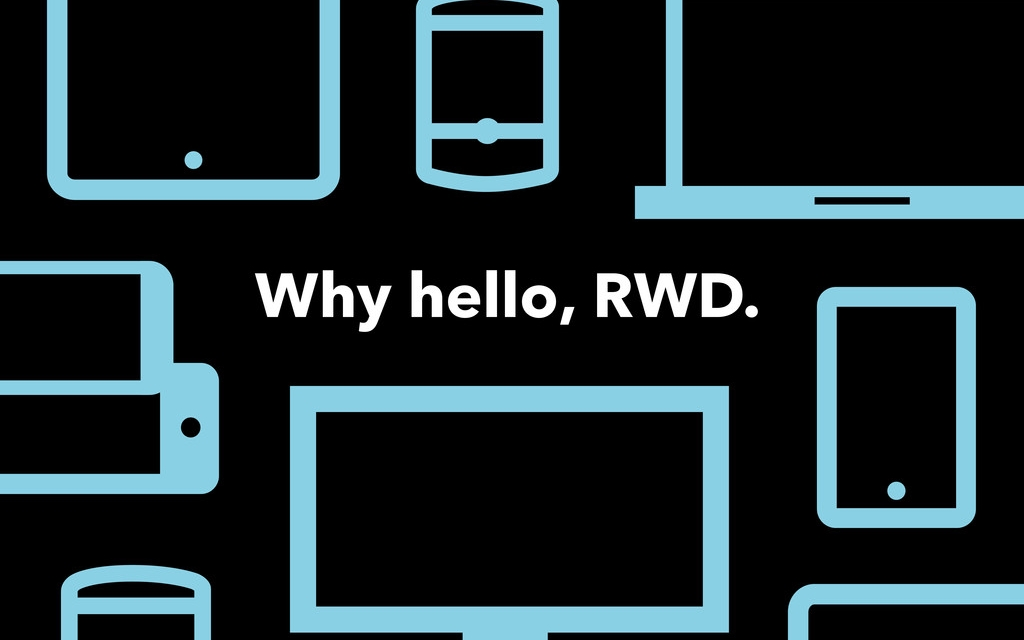
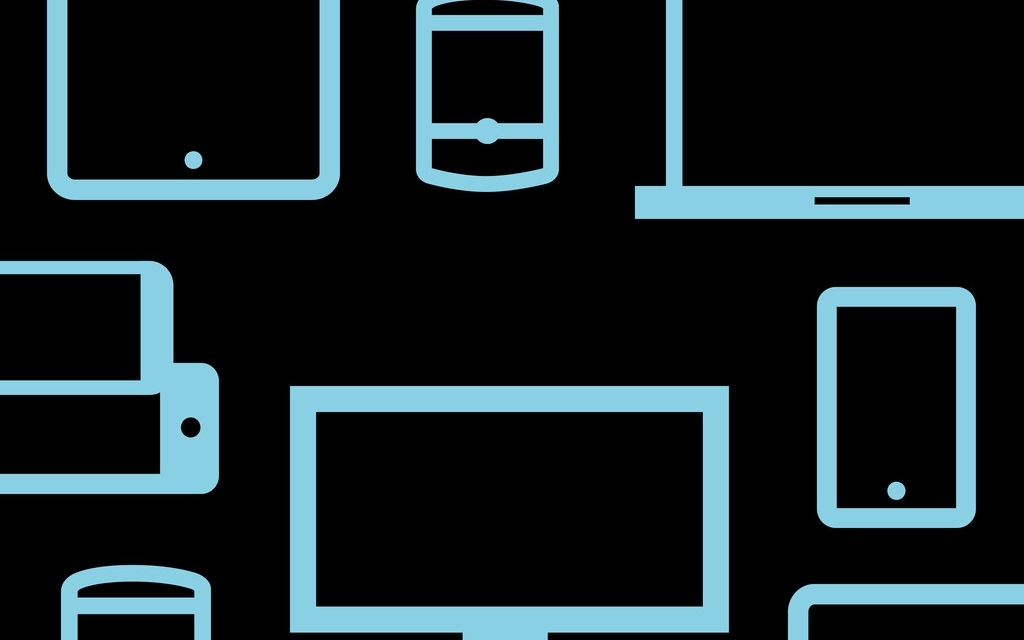
Modified slides + new slides for the picture theme

Changed region(s): [[0.25, 0.4062, 0.75, 0.5312]]

diff --git a/RWD/index.html b/RWD/index.html
@@ -97,6 +97,7 @@
 	</div></section>
 
 	<section class="slide cover"><div>
+	    <h2 style="color: #fff; line-height:400px;font-size:90px;text-align:center">Hello <s>World</s> RWD?</h2>
 		<img src="pictures/why_hello.jpg" alt="">
 	</div></section>
 
@@ -277,7 +278,7 @@
 			<code>    background-image: <br>    image-set(url(...) 1x,<br>    url(...) 2x;</code>
 			<code>    }</code>
 		</pre>
-		<img src="pictures/frame1.png" alt="">
+		<img src="pictures/frame2.png" alt="">
 	</div></section>
 
 	<section class="slide cover"><div>
@@ -595,26 +596,45 @@
 
 	<section class="slide cover">
 	<div>
-		<h2 style="color: #EEEff8">&lt;picture&gt;</h2>
-		<pre style="font-size: .7em;color: #fff">			<code style="color: #EEEff8">&lt;picture&gt;</code>
-			<code style="color: #EEEff8">    &lt;source media="(min-width: 45em)" src="large.jpg"&gt;</code>
-			<code style="color: #EEEff8">    &lt;source media="(min-width: 18em)" src="med.jpg"&gt;</code>
-			<code style="color: #EEEff8">    &lt;source src="small.jpg"&gt;</code>
-			<code style="color: #EEEff8">    &lt;img src="small.jpg" alt="" lazyload&gt;</code>
-			<code style="color: #EEEff8">&lt;/picture&gt;</code>
-		</pre>
-		<img src="pictures/boba.jpg" alt="">
+		<h2 style="color: #000;margin-top:-60px;text-align:center;font-size:80px">&lt;picture&gt;</h2>
+		<img src="pictures/picture_bg.png" alt="">
+	</div></section>
+
+	<section class="slide cover" style="background:#fff;">
+	<div>
+		<figure class="img-diagram-figure">
+          <div style="padding-top: 53%"></div>
+          <svg viewBox="0 0 679 363" class="img-d-1"><style>.img-d-1 .st0{fill:#5F6464;} .img-d-1 .st1{font-family:Inconsolata; font-weight: bold;} .img-d-1 .st2{font-size:26px;} .img-d-1 .st3{fill:#C92C2C;} .img-d-1 .st4{fill:#309D47;} .img-d-1 .st5{fill:#1990B8;} .img-d-1 .st6{font-family:Inconsolata;} .img-d-1 .st7{font-size:26px;} .img-d-1 .st8{fill:none;stroke:#ED1F24;stroke-width:3;stroke-miterlimit:10;} .img-d-1 .st9{fill:#ED1F24;} .img-d-1 .st10{fill:none;} .img-d-1 .st11{font-size:26px;} .img-d-1 .st12{font-size:26px;}</style><text transform="matrix(.998 -.069 .069 .998 20.354 82.914)"><tspan x="0" y="0" class="st0 st1 st2">&lt;</tspan><tspan x="13.5" y="0" class="st3 st1 st2">img</tspan><tspan x="54" y="0" class="st1 st2"> </tspan><tspan x="67.4" y="0" class="st4 st1 st2">alt</tspan><tspan x="107.9" y="0" class="st0 st1 st2">="</tspan><tspan x="134.9" y="0" class="st5 st1 st2">A cat</tspan><tspan x="202.3" y="0" class="st0 st1 st2">"</tspan><tspan x="0" y="32.4" class="st1 st2"> </tspan><tspan x="67.4" y="32.4" class="st4 st1 st2">width</tspan><tspan x="134.9" y="32.4" class="st0 st1 st2">="</tspan><tspan x="161.9" y="32.4" class="st5 st1 st2">320</tspan><tspan x="202.3" y="32.4" class="st0 st1 st2">"</tspan><tspan x="215.8" y="32.4" class="st1 st2"> </tspan><tspan x="229.3" y="32.4" class="st4 st1 st2">height</tspan><tspan x="310.2" y="32.4" class="st0 st1 st2">="</tspan><tspan x="337.2" y="32.4" class="st5 st1 st2">213</tspan><tspan x="377.7" y="32.4" class="st0 st1 st2">"</tspan><tspan x="0" y="64.7" class="st1 st2"> </tspan><tspan x="67.4" y="64.7" class="st4 st1 st2">src</tspan><tspan x="107.9" y="64.7" class="st0 st1 st2">="</tspan><tspan x="134.9" y="64.7" class="st5 st1 st2">cat.jpg</tspan><tspan x="229.3" y="64.7" class="st0 st1 st2">"</tspan><tspan x="0" y="97.1" class="st1 st2"> </tspan><tspan x="67.4" y="97.1" class="st4 st1 st2">srcset</tspan><tspan x="148.4" y="97.1" class="st0 st1 st2">="</tspan><tspan x="175.4" y="97.1" class="st5 st1 st2">cat-2x.jpg 2x, cat-3x.jpg 3x</tspan><tspan x="553" y="97.1" class="st0 st1 st2">"&gt;</tspan></text><text transform="matrix(.994 .106 -.106 .994 342.694 25.916)" class="st6 st7">Fixed size, here or in CSS</text><path class="st8" d="M428.4 79.3c45-.4 106.5-4 109.2-28.2"></path><path class="st9" d="M434 86.5l-3.2-7.2 3-7.3-17 7.4z"></path><path class="st10" d="M332.6 365.2L5 374.7 2 268.5l327.5-9.5z"></path><text transform="matrix(1 -.029 .029 1 3.153 304.998)"><tspan x="0" y="0" class="st6 st11">This is used as the 1x src &amp; by </tspan><tspan x="0" y="41.9" class="st6 st11">browsers that don’t support srcset</tspan></text><path class="st8" d="M76.6 138.6c-39 9-54.7 64.5-54.7 129"></path><path class="st9" d="M70.2 132.4l4 6.7-2 8 16-9.3z"></path><text transform="matrix(.999 -.052 .052 .999 142.013 230.768)" class="st6 st12">Image url</text><text transform="matrix(.998 -.057 .057 .998 383.769 220.199)" class="st6 st12">Pixel density of screen</text><path class="st8" d="M292 181.4c-1.3 15.8-8.8 29.6-30.4 31.6"></path><path class="st9" d="M284.6 186.7l7.3-3 7 3.3-7-17.3z"></path><path class="st8" d="M345 177.2c3 22 12.4 30 34.7 30"></path><path class="st9" d="M338.4 183.2l7-3.6 7.4 2.4-8.7-16.4z"></path></svg>
+        </figure>
 	</div></section>
 
 	<section class="slide cover"><div>
 		<h2>Picturefill</h2>
 		<ul>
-		    <li>No exrta size</li>
+		    <li>No extra size</li>
 		    <li>Like &lt;picture&gt; element</li>
 		    <li>Allows user to choose experiance <br>thay would like to have</li>
 		    <li><a href="http://scottjehl.github.io/picturefill/#examples">Demo</a></li>
 		</ul>
 		<img src="pictures/pictureful.jpg" alt="">
+	</div></section>
+
+	<section class="slide cover"><div>
+		<h2>Still problems</h2>
+		<ul style="font-size: 90%">
+		    <li>Development</li>
+		    <li>Speed</li>
+		    <li>Accessability</li>
+		    <li>Images</li>
+		    <li>Tables</li>
+		    <li>Test</li>
+		    <li>etc</li>
+		</ul>
+		<ul class="links">
+            <li><a href="https://developers.google.com/speed/pagespeed/insights/?hl=ru">Page Speed</a></li>
+            <li><a href="http://e-planet.ru/company/blog/ponjatie-kriticheski-vazhnogo-css.html">Critical CSS</a></li>
+		</ul>
+		<img src="pictures/dark_side.png" alt="">
 	</div></section>
 
 

diff --git a/RWD/index.css b/RWD/index.css
@@ -1,4 +1,11 @@
 #noliststyle div ul>li:before{content:'\2022\00A0\00A0'}
+.links {position: absolute;bottom: 0;}
+.links li {display: inline-block;}
+ul.links>li:before {content:"";}
+
+
+
+
 
 .container {position: absolute;top: 0;left: 0;-webkit-box-sizing: border-box;-moz-box-sizing: border-box;box-sizing: border-box;padding: 15px;width: 1024px;height: 640px;background: #FFF;overflow: hidden;}
 .container .borderAndRadius {position: absolute;top:160px;left:150px;width: 710px;height: 305px;border:10px solid gray;border-radius: 10px}
@@ -85,3 +92,27 @@ animation: width 4s linear 4s infinite alternate;
 
 
 
+@font-face {
+  font-family: 'Inconsolata';
+  font-style: normal;
+  font-weight: 400;
+  src: url(https://themes.googleusercontent.com/static/fonts/inconsolata/v6/BjAYBlHtW3CJxDcjzrnZCCwlidHJgAgmTjOEEzwu1L8.ttf) format('truetype');
+}
+@font-face {
+  font-family: 'PT Serif';
+  font-style: normal;
+  font-weight: 400;
+  src: url(https://themes.googleusercontent.com/static/fonts/ptserif/v5/EgBlzoNBIHxNPCMwXaAhYHYhjbSpvc47ee6xR_80Hnw.ttf) format('truetype');
+}
+
+/*picture*/
+.img-diagram-figure {
+    position: relative;
+  }
+  .img-diagram-figure svg {
+    position: absolute;
+    top: 0;
+    left: 0;
+    width: 100%;
+    height: 100%;
+  }
